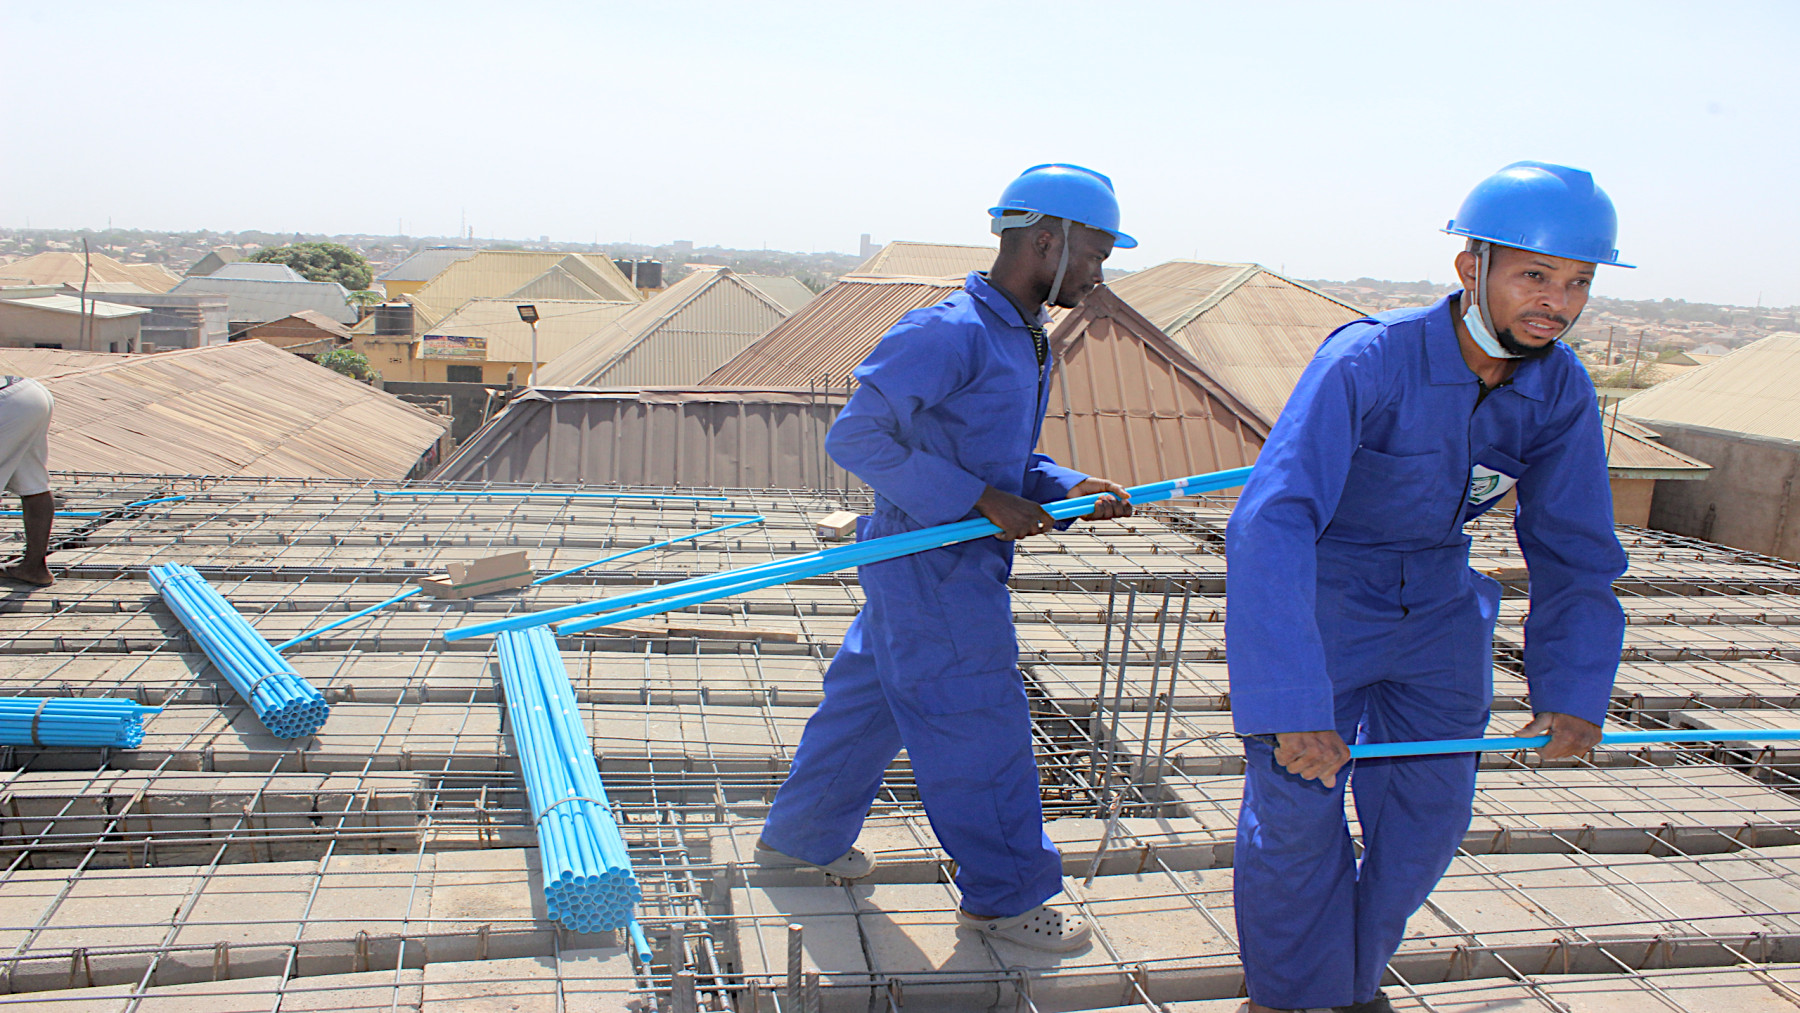
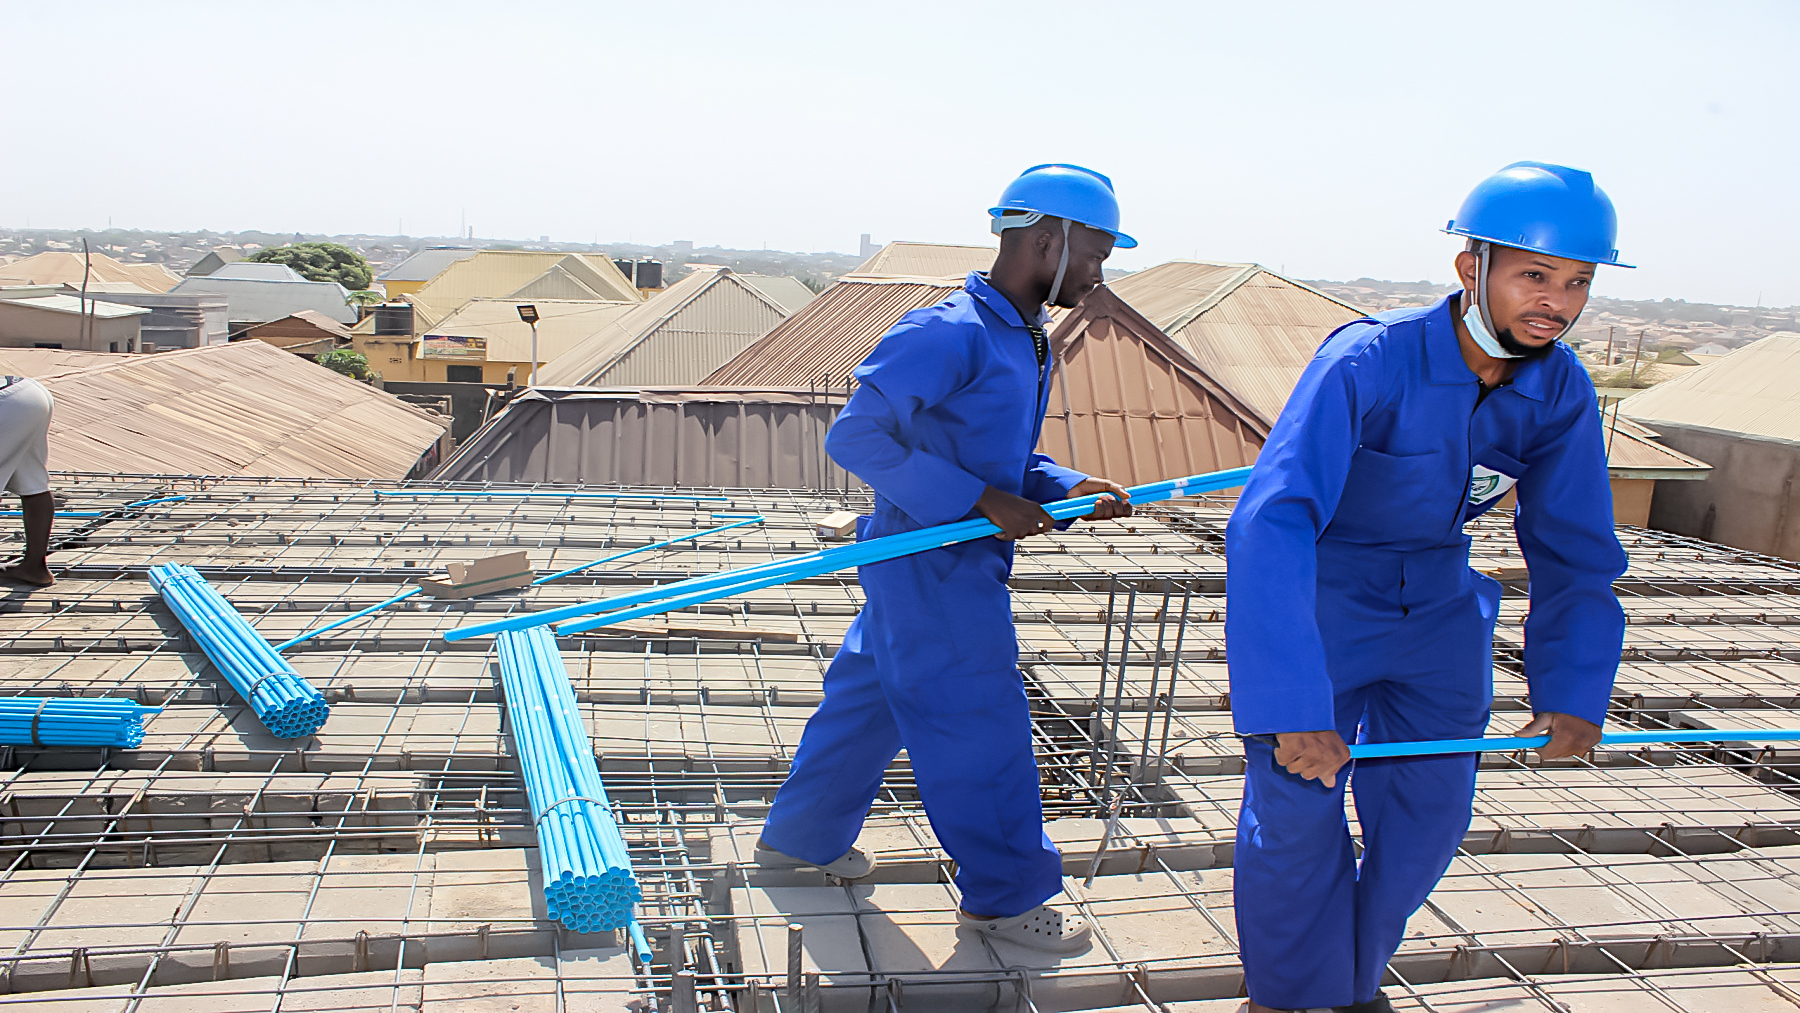
Images optimization for hero section

diff --git a/frontend/components/sections/HeroSection.tsx b/frontend/components/sections/HeroSection.tsx
@@ -1,62 +1,67 @@
-'use client'
+"use client";
 
-import Link from 'next/link'
-import { useEffect, useMemo, useState } from 'react'
-import { AnimatePresence, motion } from 'framer-motion'
-import { ArrowRight, ChevronLeft, ChevronRight } from 'lucide-react'
+import Link from "next/link";
+import { useEffect, useMemo, useState } from "react";
+import { AnimatePresence, motion } from "framer-motion";
+import { ArrowRight, ChevronLeft, ChevronRight } from "lucide-react";
 
 export interface HeroSectionProps {
-  onBrowseClick?: () => void
-  onEnrollClick?: () => void
+  onBrowseClick?: () => void;
+  onEnrollClick?: () => void;
 }
 
 const HERO_SLIDES = [
   {
-    title: 'Brainstorm Skills Academy',
+    title: "Brainstorm Academy Skills",
     description:
-      'Career-ready training in ICT, business, hospitality, and hands-on trades, built around real projects, mentorship, and certification pathways.',
-    ctaLink: '/courses',
-    mediaUrl: '/assets/hero_1.jpg',
-    eyebrow: 'Admissions open for practical skills cohorts',
+      "Career-ready training in ICT, business, hospitality, and hands-on trades, built around real projects, mentorship, and certification pathways.",
+    ctaLink: "/courses",
+    mediaUrl: "/assets/hero_2.webp",
+    eyebrow: "Admissions open for practical skills cohorts",
   },
   {
-    title: 'Learn With Tools, Projects, And Mentors',
+    title: "Learn With Tools, Projects, And Mentors",
     description:
-      'Move from lessons into supervised practice with instructors who understand the local job market and the standards employers expect.',
-    ctaLink: '/signup',
-    mediaUrl: '/assets/hero_2.JPG',
-    eyebrow: 'Blended training for ambitious learners',
+      "Move from lessons into supervised practice with instructors who understand the local job market and the standards employers expect.",
+    ctaLink: "/signup",
+    mediaUrl: "/assets/hero_3.webp",
+    eyebrow: "Blended training for ambitious learners",
   },
   {
-    title: 'Build Work You Can Show',
+    title: "Build Work You Can Show",
     description:
-      'Graduate with practical evidence of what you can do, from technical installations and digital products to service and creative portfolios.',
-    ctaLink: '/contact',
-    mediaUrl: '/assets/hero_3.jpg',
-    eyebrow: 'Portfolio-ready outcomes',
+      "Graduate with practical evidence of what you can do, from technical installations and digital products to service and creative portfolios.",
+    ctaLink: "/contact",
+    mediaUrl: "/assets/hero_1.webp",
+    eyebrow: "Portfolio-ready outcomes",
   },
-]
+];
 
-export function HeroSection({ onBrowseClick, onEnrollClick }: HeroSectionProps) {
-  const [activeIndex, setActiveIndex] = useState(0)
+export function HeroSection({
+  onBrowseClick,
+  onEnrollClick,
+}: HeroSectionProps) {
+  const [activeIndex, setActiveIndex] = useState(0);
 
   useEffect(() => {
     const interval = window.setInterval(() => {
-      setActiveIndex((current) => (current + 1) % HERO_SLIDES.length)
-    }, 5000)
+      setActiveIndex((current) => (current + 1) % HERO_SLIDES.length);
+    }, 5000);
 
-    return () => window.clearInterval(interval)
-  }, [])
+    return () => window.clearInterval(interval);
+  }, []);
 
-  const activeSlide = useMemo(() => HERO_SLIDES[activeIndex], [activeIndex])
+  const activeSlide = useMemo(() => HERO_SLIDES[activeIndex], [activeIndex]);
 
   const handleNext = () => {
-    setActiveIndex((current) => (current + 1) % HERO_SLIDES.length)
-  }
+    setActiveIndex((current) => (current + 1) % HERO_SLIDES.length);
+  };
 
   const handlePrev = () => {
-    setActiveIndex((current) => (current - 1 + HERO_SLIDES.length) % HERO_SLIDES.length)
-  }
+    setActiveIndex(
+      (current) => (current - 1 + HERO_SLIDES.length) % HERO_SLIDES.length,
+    );
+  };
 
   return (
     <section className="relative isolate min-h-[calc(100vh-72px)] overflow-hidden bg-slate-950 text-white">
@@ -119,11 +124,14 @@ export function HeroSection({ onBrowseClick, onEnrollClick }: HeroSectionProps) 
 
         <div className="mt-12 grid max-w-3xl gap-3 sm:grid-cols-3">
           {[
-            ['24+', 'Certified programs'],
-            ['98%', 'Career support rate'],
-            ['15K+', 'Learner community'],
+            ["24+", "Certified programs"],
+            ["98%", "Career support rate"],
+            ["15K+", "Learner community"],
           ].map(([value, label]) => (
-            <div key={label} className="border border-white/15 bg-white/10 p-4 backdrop-blur">
+            <div
+              key={label}
+              className="border border-white/15 bg-white/10 p-4 backdrop-blur"
+            >
               <p className="text-3xl font-semibold text-white">{value}</p>
               <p className="mt-1 text-sm text-slate-200">{label}</p>
             </div>
@@ -146,7 +154,9 @@ export function HeroSection({ onBrowseClick, onEnrollClick }: HeroSectionProps) 
                 type="button"
                 onClick={() => setActiveIndex(index)}
                 className={`h-2.5 rounded-full transition ${
-                  index === activeIndex ? 'w-8 bg-[#d4a873]' : 'w-2.5 bg-white/45'
+                  index === activeIndex
+                    ? "w-8 bg-[#d4a873]"
+                    : "w-2.5 bg-white/45"
                 }`}
                 aria-label={`Go to slide ${index + 1}`}
               />
@@ -163,5 +173,5 @@ export function HeroSection({ onBrowseClick, onEnrollClick }: HeroSectionProps) 
         </div>
       </div>
     </section>
-  )
+  );
 }